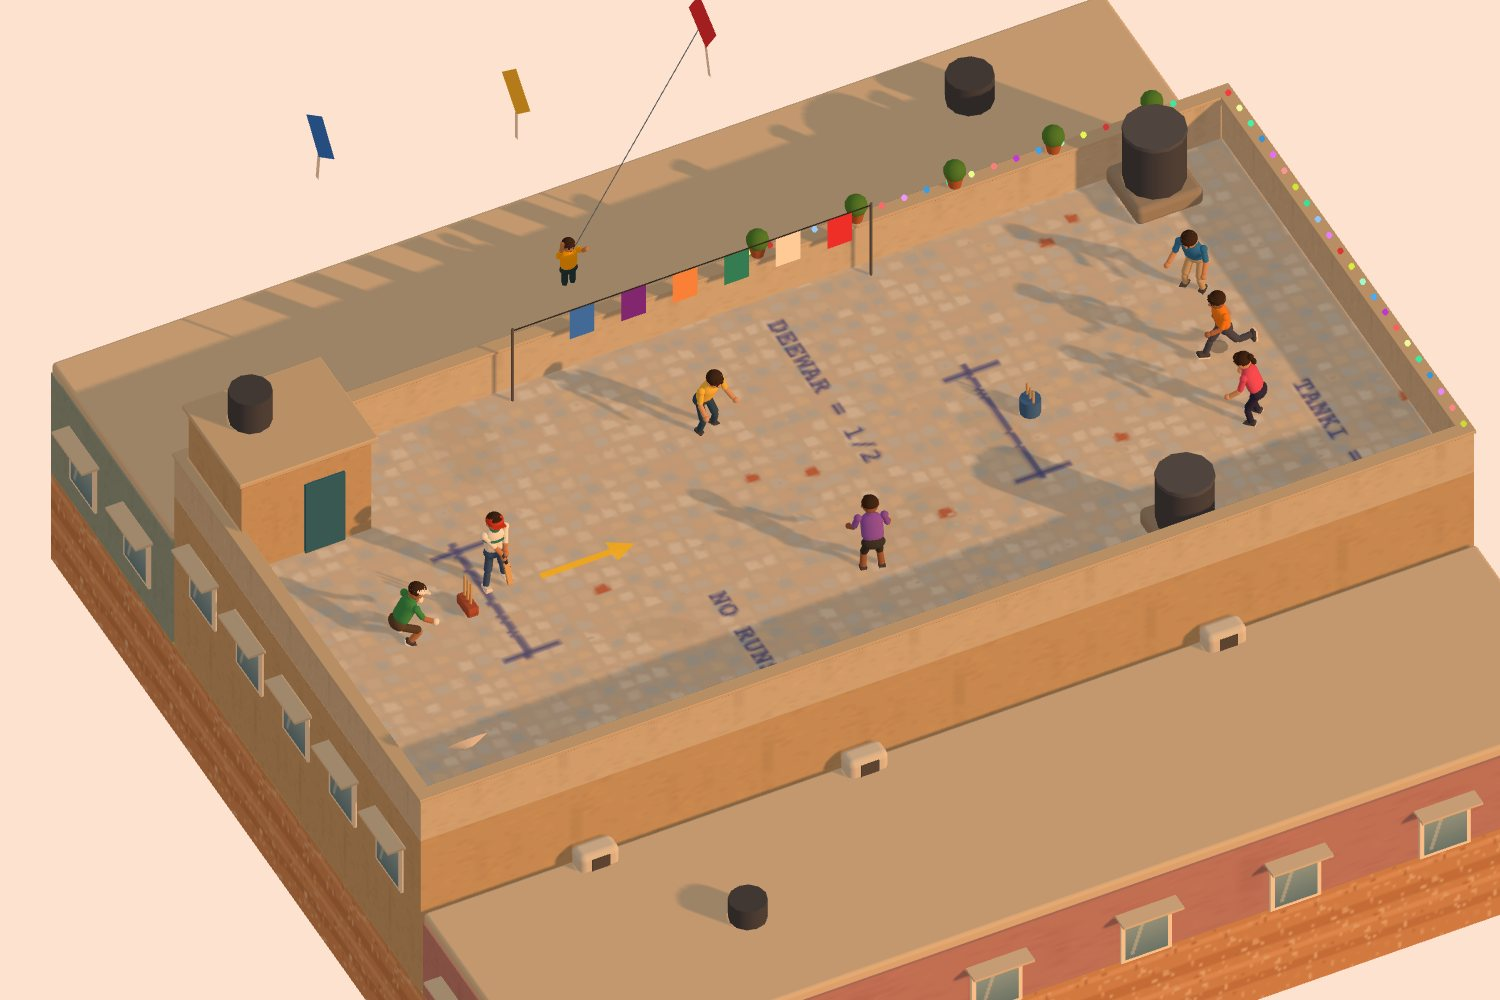
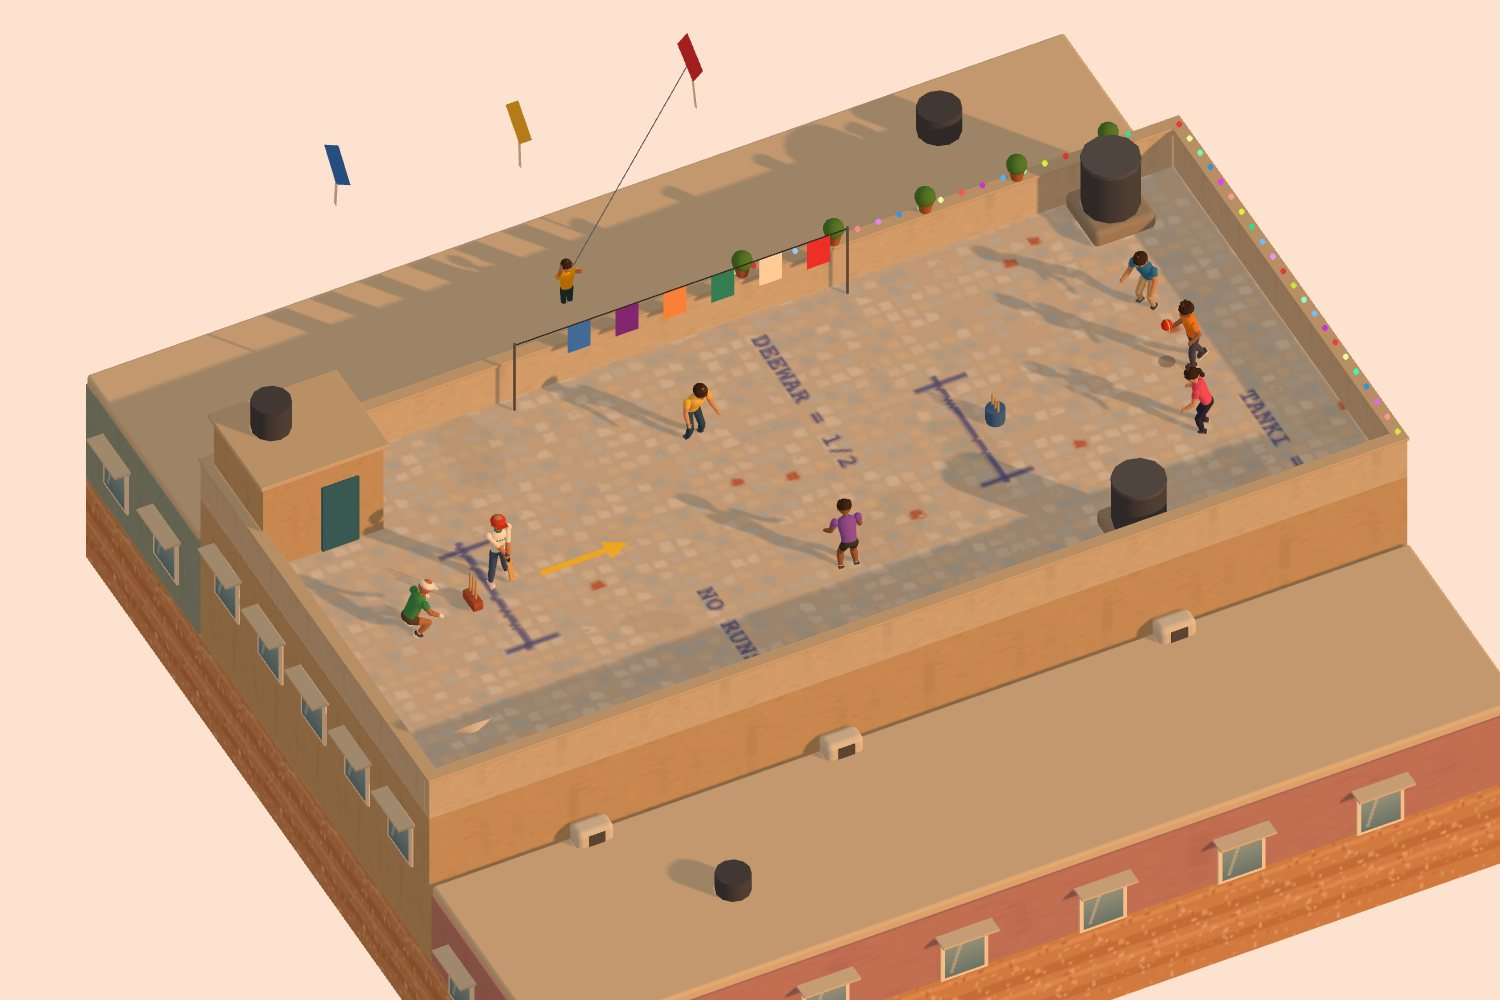
Add Sand Spike and refresh every screenshot
Fourth card for beach volleyball, the cards in a 2x2 grid, new shots of
all 13 grounds with the human-proportioned characters, and a four-panel
share image.

diff --git a/index.html b/index.html
@@ -4,9 +4,9 @@
 <meta charset="utf-8">
 <meta name="viewport" content="width=device-width,initial-scale=1,viewport-fit=cover">
 <title>Street Games</title>
-<meta name="description" content="Three street sports from three continents, built as tiny clay worlds: Galli Cricket, Panna Cage and Block Hoops. Free in your browser.">
+<meta name="description" content="Four street sports from around the world, built as tiny clay worlds: Galli Cricket, Panna Cage, Block Hoops and Sand Spike. Free in your browser.">
 <meta property="og:title" content="Street Games">
-<meta property="og:description" content="Galli Cricket, Panna Cage and Block Hoops: street cricket, street football and streetball as tiny clay worlds. Free in your browser.">
+<meta property="og:description" content="Galli Cricket, Panna Cage, Block Hoops and Sand Spike: street cricket, street football, streetball and beach volleyball as tiny clay worlds. Free in your browser.">
 <meta property="og:image" content="https://muhammadalims.github.io/img/og.jpg">
 <meta property="og:url" content="https://muhammadalims.github.io/">
 <meta name="twitter:card" content="summary_large_image">
@@ -25,6 +25,7 @@
   --red: #d6402b;       /* cricket */
   --teal: #2c8c86;      /* football */
   --orange: #e8742c;    /* basketball */
+  --sky: #3a86c8;       /* volleyball */
   --muted: #6f665b;
   --display: "Bungee", "Arial Black", system-ui, sans-serif;
   --body: "Figtree", system-ui, -apple-system, "Segoe UI", sans-serif;
@@ -45,11 +46,12 @@ header { display: flex; flex-wrap: wrap; align-items: flex-end; justify-content:
 .chip { font: 700 11px var(--pixel); letter-spacing: 0.1em; text-transform: uppercase; background: var(--ink); color: var(--chalk); padding: 6px 11px; border-radius: 999px; }
 .chip.light { background: transparent; color: var(--ink); box-shadow: inset 0 0 0 2px var(--ink); }
 
-.games { display: grid; grid-template-columns: repeat(3, minmax(0, 1fr)); gap: 26px; align-items: stretch; }
+.games { display: grid; grid-template-columns: repeat(2, minmax(0, 1fr)); gap: 30px; align-items: stretch; }
 .card { --accent: var(--red); background: var(--chalk); border: 3px solid var(--ink); border-radius: 26px; box-shadow: 0 9px 0 var(--ink); overflow: hidden; display: flex; flex-direction: column; transition: transform .2s ease, box-shadow .2s ease; }
 .card:hover { transform: translateY(-4px); box-shadow: 0 13px 0 var(--ink); }
 .card.football { --accent: var(--teal); }
 .card.hoops { --accent: var(--orange); }
+.card.volley { --accent: var(--sky); }
 .shot { position: relative; aspect-ratio: 3 / 2; max-width: 100%; overflow: hidden; border-bottom: 3px solid var(--ink); background: #efe5d6; }
 .shot img { width: 100%; height: 100%; object-fit: cover; display: block; transition: transform .5s ease; }
 .card:hover .shot img { transform: scale(1.04); }
@@ -88,7 +90,7 @@ footer a { color: var(--ink); font-weight: 700; }
   <header>
     <h1 class="mark">STREET <span>GAMES</span></h1>
     <div class="pitch">
-      <p>Three street sports from three continents, built as tiny clay worlds. Every one has its own house rules. Free in your browser, nothing to download.</p>
+      <p>Four street sports from around the world, built as tiny clay worlds. Every one has its own house rules. Free in your browser, nothing to download.</p>
       <div class="chips"><span class="chip">vs AI</span><span class="chip">2 players</span><span class="chip">phone + keyboard</span><span class="chip light">built with Claude</span></div>
     </div>
   </header>
@@ -142,11 +144,27 @@ footer a { color: var(--ink); font-weight: 700; }
         <div class="actions"><a class="play" href="/block-hoops/">PLAY</a><a class="src" href="https://github.com/MuhammadaliMS/block-hoops">CODE</a></div>
       </div>
     </article>
+
+    <article class="card volley">
+      <div class="shot"><img src="img/sand-spike-copa.jpg" alt="Clay diorama of a beach volleyball court on Copacabana, with the wave-pattern promenade and the ocean" width="1500" height="1000"><span class="sport">BEACH VOLLEYBALL · RIO · LA · SYDNEY</span></div>
+      <div class="body">
+        <h2>SAND <span>SPIKE</span></h2>
+        <p>Two on two on the sand. Bump it to your partner, take the set, and spike it past the block. First to 15, win by two.</p>
+        <div class="grounds three">
+          <div class="ground"><img src="img/sand-spike-copa.jpg" alt="" loading="lazy"><span>Copacabana</span></div>
+          <div class="ground"><img src="img/sand-spike-santa.jpg" alt="" loading="lazy"><span>Santa Monica</span></div>
+          <div class="ground"><img src="img/sand-spike-bondi.jpg" alt="" loading="lazy"><span>Bondi Sunset</span></div>
+        </div>
+        <div class="rule"><b>BONDI</b>Land it in the surf and the point goes to them.</div>
+        <div class="modes"><span class="chip light">2v2 with AI partner</span><span class="chip light">2 players</span><span class="chip light">first to 15</span></div>
+        <div class="actions"><a class="play" href="/sand-spike/">PLAY</a><a class="src" href="https://github.com/MuhammadaliMS/sand-spike">CODE</a></div>
+      </div>
+    </article>
   </main>
 
   <footer>
     <p>On a phone, turn it sideways: every game plays in landscape with a thumb stick and action buttons. On a computer, the keys are listed on each game's start screen.</p>
-    <p>All three games are open source on <a href="https://github.com/MuhammadaliMS">GitHub</a>.</p>
+    <p>All four games are open source on <a href="https://github.com/MuhammadaliMS">GitHub</a>.</p>
   </footer>
 </div>
 </body>

diff --git a/README.md b/README.md
@@ -1,6 +1,6 @@
 # Street Games
 
-Home page for three street-sport browser games, built as tiny clay worlds with Three.js.
+Home page for four street-sport browser games, built as tiny clay worlds with Three.js.
 
 **Play:** https://muhammadalims.github.io/
 
@@ -9,5 +9,6 @@ Home page for three street-sport browser games, built as tiny clay worlds with T
 | Galli Cricket | Street cricket (India) | https://muhammadalims.github.io/galli-cricket/ | [galli-cricket](https://github.com/MuhammadaliMS/galli-cricket) |
 | Panna Cage | Street football (London, Rio, Paris) | https://muhammadalims.github.io/panna-cage/ | [panna-cage](https://github.com/MuhammadaliMS/panna-cage) |
 | Block Hoops | Streetball (NYC, Manila, Venice Beach) | https://muhammadalims.github.io/block-hoops/ | [block-hoops](https://github.com/MuhammadaliMS/block-hoops) |
+| Sand Spike | Beach volleyball (Copacabana, Santa Monica, Bondi) | https://muhammadalims.github.io/sand-spike/ | [sand-spike](https://github.com/MuhammadaliMS/sand-spike) |
 
 Each game lives in its own repository and is served at its own path on the same site, so this repository only holds the home page (`index.html`) and its screenshots (`img/`).
